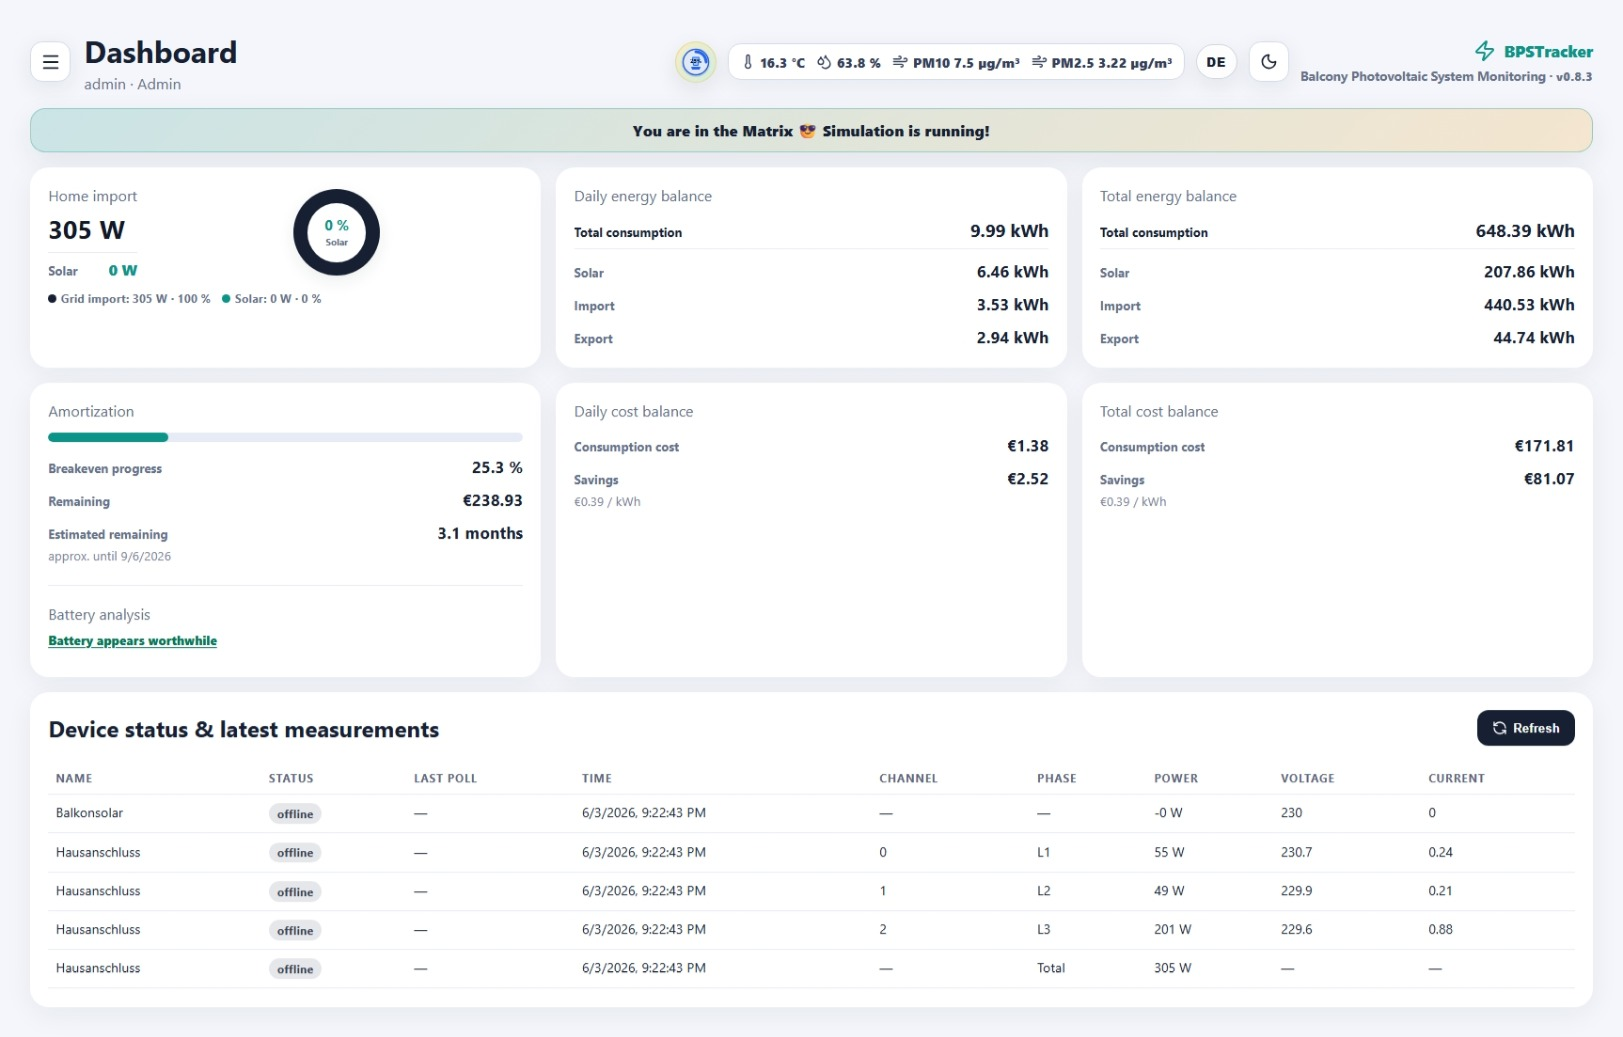
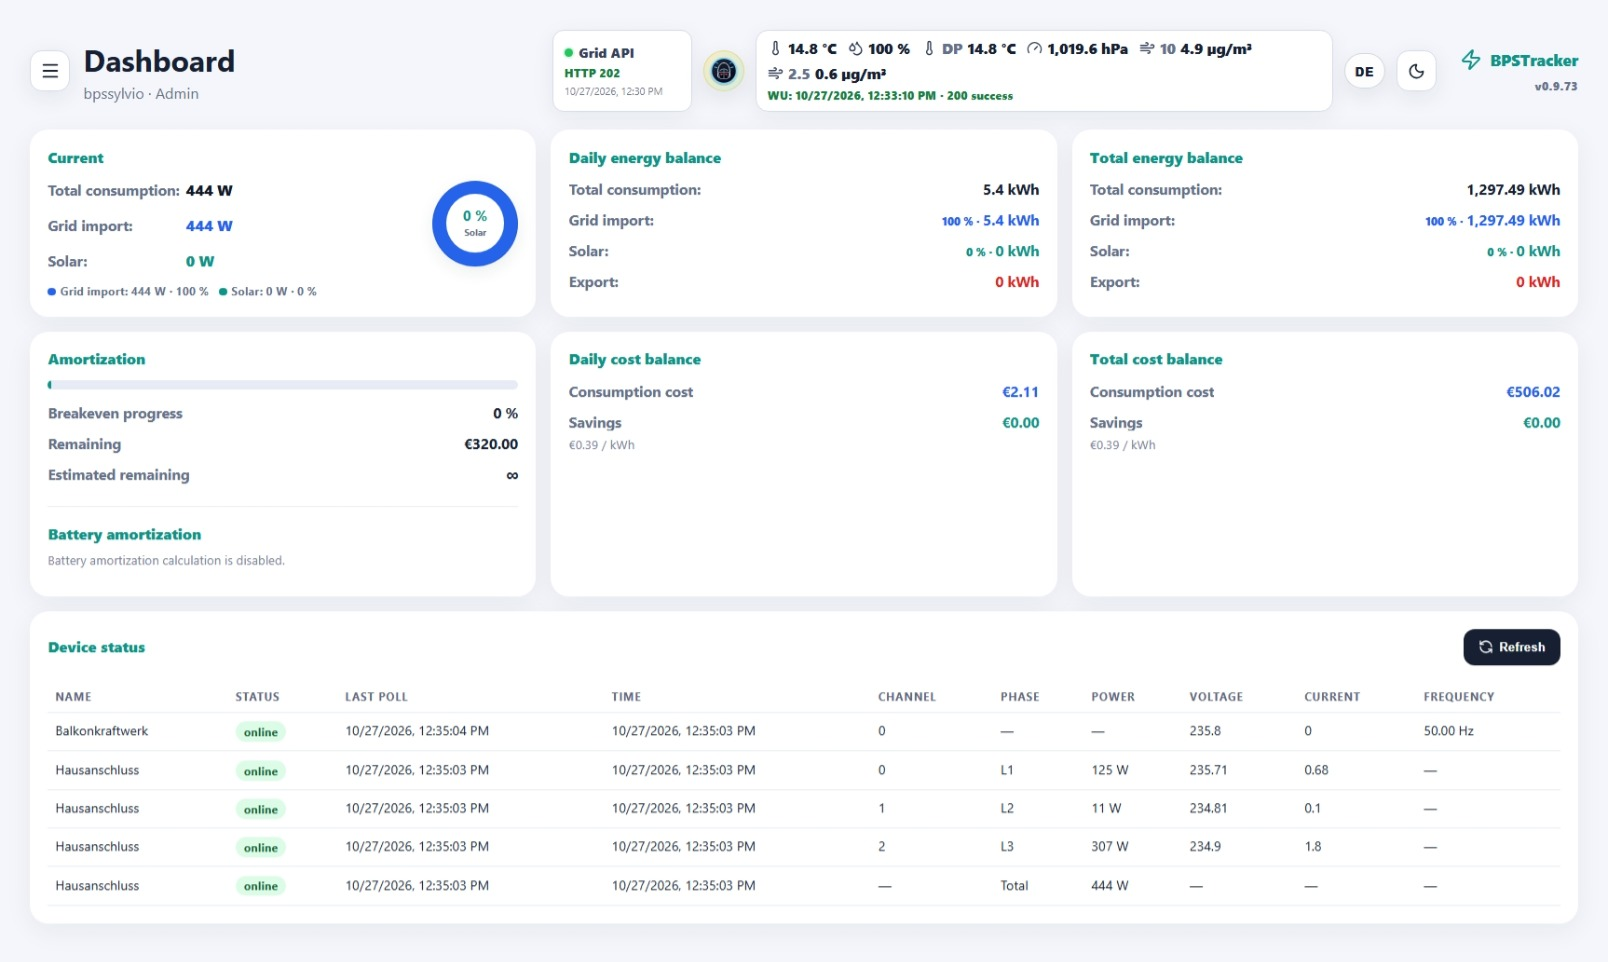
Update dashboard screenshot and preserve Ortsnetz-API name

diff --git a/backend/app/version.py b/backend/app/version.py
@@ -1,1 +1,1 @@
-__version__ = '0.9.73'
+__version__ = '0.9.74'

diff --git a/deREADME.md b/deREADME.md
@@ -1302,6 +1302,10 @@ v0.9.71 behebt die Erstellung größerer Backups bei gehärteten Installationen,
 
 
 
+### v0.9.74 Dashboard-Screenshot und Ortsnetz-Bezeichnung
+
+v0.9.74 ersetzt den Dashboard-Übersichtsscreenshot durch die aktuelle Oberfläche. Auch in der englischen Oberfläche bleibt der deutsche Projektname **Ortsnetz-API** erhalten und wird nicht mehr als „Grid API“ übersetzt.
+
 ### v0.9.73 Pushover-Geräteauswahl
 
 v0.9.73 ergänzt in den Benachrichtigungseinstellungen ein optionales Feld **Pushover Device**. Wird dort der Name eines registrierten Pushover-Geräts eingetragen, werden BPSTracker-Warnungen und Tagesberichte gezielt nur an dieses Gerät gesendet. Bleibt das Feld leer, sendet Pushover wie bisher an alle aktiven Geräte des konfigurierten Benutzers.

diff --git a/frontend/public/help/deREADME.md b/frontend/public/help/deREADME.md
@@ -1302,6 +1302,10 @@ v0.9.71 behebt die Erstellung größerer Backups bei gehärteten Installationen,
 
 
 
+### v0.9.74 Dashboard-Screenshot und Ortsnetz-Bezeichnung
+
+v0.9.74 ersetzt den Dashboard-Übersichtsscreenshot durch die aktuelle Oberfläche. Auch in der englischen Oberfläche bleibt der deutsche Projektname **Ortsnetz-API** erhalten und wird nicht mehr als „Grid API“ übersetzt.
+
 ### v0.9.73 Pushover-Geräteauswahl
 
 v0.9.73 ergänzt in den Benachrichtigungseinstellungen ein optionales Feld **Pushover Device**. Wird dort der Name eines registrierten Pushover-Geräts eingetragen, werden BPSTracker-Warnungen und Tagesberichte gezielt nur an dieses Gerät gesendet. Bleibt das Feld leer, sendet Pushover wie bisher an alle aktiven Geräte des konfigurierten Benutzers.

diff --git a/README.md b/README.md
@@ -2051,6 +2051,10 @@ v0.9.71 fixes large backup creation on hardened deployments where `/tmp` is inte
 
 
 
+### v0.9.74 Dashboard screenshot and Ortsnetz naming
+
+v0.9.74 replaces the dashboard overview screenshot with the current UI. The English dashboard now also keeps the German project name **Ortsnetz-API** instead of translating it to “Grid API”.
+
 ### v0.9.73 Pushover device targeting
 
 v0.9.73 adds an optional **Pushover Device** field to notification settings. Set a registered Pushover device name to deliver BPSTracker alerts and daily reports only to that device. Leave the field empty to keep Pushover's default behavior and deliver to all active devices for the configured user.

diff --git a/frontend/public/help/README.md b/frontend/public/help/README.md
@@ -2051,6 +2051,10 @@ v0.9.71 fixes large backup creation on hardened deployments where `/tmp` is inte
 
 
 
+### v0.9.74 Dashboard screenshot and Ortsnetz naming
+
+v0.9.74 replaces the dashboard overview screenshot with the current UI. The English dashboard now also keeps the German project name **Ortsnetz-API** instead of translating it to “Grid API”.
+
 ### v0.9.73 Pushover device targeting
 
 v0.9.73 adds an optional **Pushover Device** field to notification settings. Set a registered Pushover device name to deliver BPSTracker alerts and daily reports only to that device. Leave the field empty to keep Pushover's default behavior and deliver to all active devices for the configured user.

diff --git a/TESTING.md b/TESTING.md
@@ -1,4 +1,10 @@
-# Testing – BPSTracker v0.9.71
+# Testing – BPSTracker v0.9.74
+
+## v0.9.74 dashboard screenshot and Ortsnetz naming
+
+- Verify the English dashboard header tile is labeled `Ortsnetz-API`, not `Grid API`.
+- Verify `docs/images/dashboard-overview.png` matches the current dashboard screenshot.
+- Verify the bundled help image `frontend/public/help/docs/images/dashboard-overview.png` is synchronized.
 
 ## v0.9.73 Pushover device targeting
 

diff --git a/RELEASE_NOTES.md b/RELEASE_NOTES.md
@@ -1,3 +1,11 @@
+# BPSTracker v0.9.74
+
+## Changed
+
+- Replaced `dashboard-overview.png` with the current dashboard screenshot.
+- Kept the German project name **Ortsnetz-API** in the English dashboard instead of translating it to `Grid API`.
+- Updated the bundled help copy of the dashboard screenshot.
+
 # BPSTracker v0.9.73
 
 ## Added
